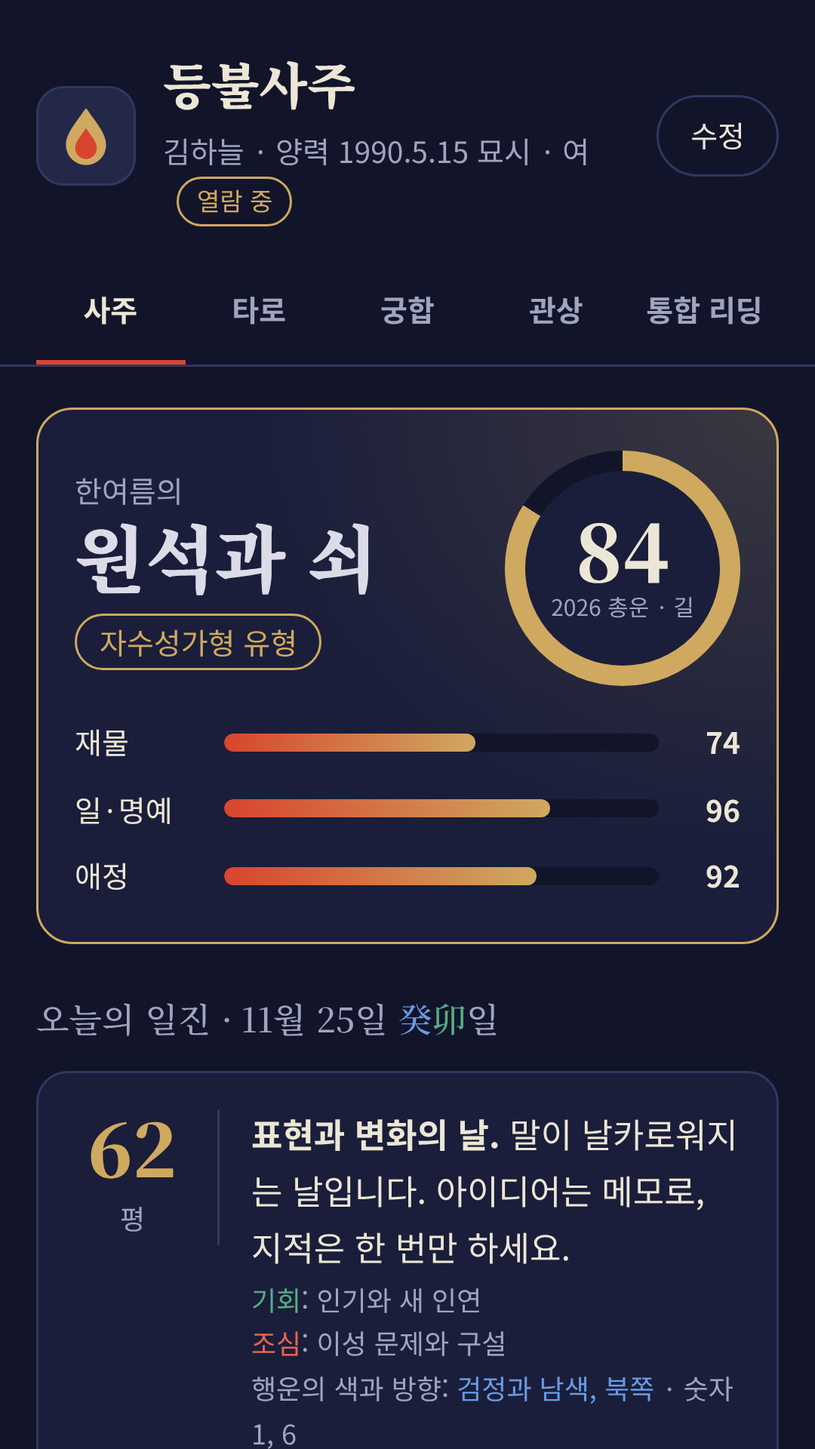
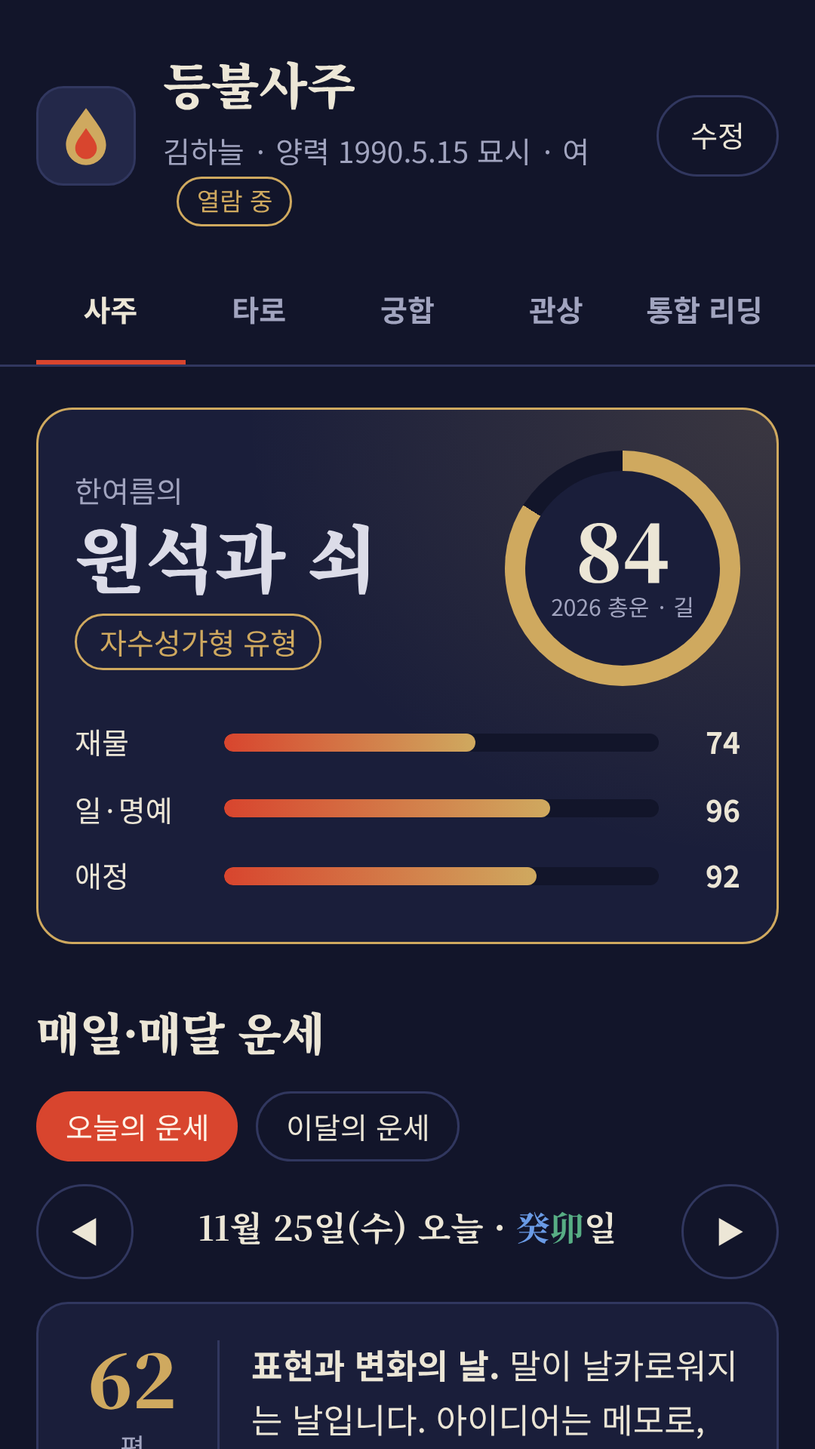
1.2: 매일·매달 운세와 달력, 어려운 말 풀이, 관상 분석 진행 막대, 가격 990원
Claude-Session: https://claude.ai/code/session_01QACgwmPwTTV6X5ASPwkZ8c

diff --git a/src/daily.js b/src/daily.js
@@ -1,0 +1,68 @@
+/* ===== 매일·매달 운세: 오늘의 운세(날짜 이동), 이달의 운세(달 이동, 날짜별 달력) =====
+   오늘과 이번 달은 무료, 다른 날·다른 달과 달력은 사주를 열면 볼 수 있다. */
+const MONTH_TIP = {
+  '비견': '내 일은 내가 정하는 달입니다. 미뤄 둔 결정을 내리기 좋지만 혼자 다 떠안지는 마세요.', '겁재': '사람 만날 일과 나갈 돈이 함께 늘어나는 달입니다. 지출 한도를 미리 정해 두세요.',
+  '식신': '꾸준히 한 것이 결과로 쌓이는 달입니다. 새로 벌이기보다 하던 일을 끝까지 마무리하세요.', '상관': '새로운 생각과 하고 싶은 말이 많아지는 달입니다. 표현은 살리되 윗사람과의 마찰은 피하세요.',
+  '편재': '움직인 만큼 기회가 생기는 달입니다. 사람을 만나고 발품을 파세요. 무리한 투자만 조심하면 됩니다.', '정재': '성실함이 그대로 수입과 신용으로 돌아오는 달입니다. 정리, 저축, 계약에 좋습니다.',
+  '편관': '책임과 압박이 커지는 달입니다. 일정을 줄이고 건강과 안전을 먼저 챙기세요.', '정관': '자리와 평판이 걸린 일이 생기는 달입니다. 규칙과 약속을 지키면 인정받습니다.',
+  '편인': '혼자 생각하고 배우기 좋은 달입니다. 결정은 서두르지 말고 자료를 더 모으세요.', '정인': '도움과 배움이 들어오는 달입니다. 윗사람의 조언을 듣고 자격이나 공부를 시작하기 좋습니다.'
+};
+const MONTH_TIP_KID = {
+  '비견': '스스로 해 보려는 마음이 커지는 달입니다. 혼자 정하고 해내는 경험을 하게 두면 좋습니다.', '겁재': '친구와 어울리는 일이 많아지는 달입니다. 친구 따라 하다 생기는 문제만 살펴 주세요.',
+  '식신': '좋아하는 것에 푹 빠지는 달입니다. 만들고 그리고 몸을 쓰는 활동이 잘 맞습니다.', '상관': '말과 호기심이 늘어나는 달입니다. 질문을 막지 말고, 말대꾸는 차분히 받아 주세요.',
+  '편재': '새로운 곳과 새로운 놀이에 끌리는 달입니다. 바깥 활동과 체험이 도움이 됩니다.', '정재': '차근차근 해내는 힘이 붙는 달입니다. 용돈 관리나 정리 습관을 들이기 좋습니다.',
+  '편관': '규칙과 숙제가 버겁게 느껴질 수 있는 달입니다. 일정을 줄이고 다치지 않게 살펴 주세요.', '정관': '칭찬과 인정을 받기 좋은 달입니다. 약속을 지키는 습관이 자랍니다.',
+  '편인': '혼자 생각하고 몰두하는 시간이 늘어나는 달입니다. 조용히 읽고 만드는 시간을 주세요.', '정인': '배우는 것이 잘 들어오는 달입니다. 책과 공부, 어른의 보살핌이 힘이 됩니다.'
+};
+const DAY_TIP_KID = {
+  '비견': '스스로 하고 싶은 것이 분명한 날입니다. 하나쯤은 직접 정하게 해 주세요.', '겁재': '친구와 부딪히기 쉬운 날입니다. 물건을 잃어버리지 않게 챙기세요.',
+  '식신': '잘 먹고 잘 노는 날입니다. 손으로 만드는 놀이가 잘 맞습니다.', '상관': '말이 많아지고 장난이 심해지는 날입니다. 에너지를 몸으로 풀게 해 주세요.',
+  '편재': '새로운 것에 눈이 가는 날입니다. 바깥 나들이가 좋습니다.', '정재': '차분히 정리하고 마무리하기 좋은 날입니다.',
+  '편관': '긴장하거나 다치기 쉬운 날입니다. 무리한 일정은 줄이세요.', '정관': '칭찬받을 일이 생기는 날입니다. 약속을 지키게 도와주세요.',
+  '편인': '혼자 있고 싶어 하는 날입니다. 조용한 시간을 주세요.', '정인': '배운 것이 잘 들어오는 날입니다. 책 읽기와 공부에 좋습니다.'
+};
+const WD = ['일', '월', '화', '수', '목', '금', '토'];
+function monthPillarOn(y, m, ds) { const t = calcSaju({ cal: 'solar', y, m, d: 15, si: 6, gender: 'M' }); return pillar(t.P.month.s, t.P.month.b, ds); }
+function fortuneHTML() {
+  const sj = S.saju, ds = sj.P.day.s, now = new Date(), tab = S.fTab || 'day', open = !!S.premium;
+  const bar = (n, v) => '<div class="sbar"><span>' + n + '</span><span class="trk"><i style="--w:' + v + '%"></i></span><b>' + v + '</b></div>';
+  const bars = (sc, kid) => '<div class="sbars">' + (kid ? bar('공부·성장', sc.career) + bar('친구·관계', sc.love) : bar('재물', sc.wealth) + bar('일·명예', sc.career) + bar('애정', sc.love)) + '</div>';
+  const lists = ev => (ev.good.length ? '<p class="note"><span class="c0">기회</span>: ' + ev.good.join(' / ') + '</p>' : '') + (ev.cautions.length ? '<p class="note"><span class="c1">조심</span>: ' + ev.cautions.join(' / ') + '</p>' : '');
+  const tabs = '<div class="chips"><button type="button" class="chip' + (tab === 'day' ? ' on' : '') + '" data-ftab="day">오늘의 운세</button><button type="button" class="chip' + (tab === 'month' ? ' on' : '') + '" data-ftab="month">이달의 운세</button></div>';
+  const gate = open ? '' : '<p class="note">다른 날과 다른 달의 운세, 날짜별 달력은 사주를 열면 볼 수 있습니다.</p>';
+  let body;
+  if (tab === 'day') {
+    const d = new Date(now.getFullYear(), now.getMonth(), now.getDate() + (open ? (S.fDay || 0) : 0), 12), off = open ? (S.fDay || 0) : 0;
+    const age = d.getFullYear() - sj.by, kid = age < 20, p = dayPillarOf(d.getFullYear(), d.getMonth() + 1, d.getDate(), ds), sc = luckScores(p, false), ev = evalLuck(p, false, age);
+    const lucky = S.ni.johu >= 0 && sj.count[S.ni.johu] <= sj.count[sj.need] ? S.ni.johu : sj.need;
+    const label = (d.getMonth() + 1) + '월 ' + d.getDate() + '일(' + WD[d.getDay()] + ')' + (off === 0 ? ' 오늘' : off === 1 ? ' 내일' : off === -1 ? ' 어제' : '');
+    body = '<div class="yearpick"><button type="button" class="ghost" data-fday="-1" aria-label="이전 날">◀</button><b class="fnow">' + label + ' · ' + elSpan(p.sEl, p.stemH) + elSpan(p.bEl, p.branchH) + '일</b><button type="button" class="ghost" data-fday="1" aria-label="다음 날">▶</button></div>' +
+      '<div class="panel block"><div class="daily"><div class="dscore"><b' + (off === 0 ? ' data-count="' + sc.total + '"' : '') + '>' + sc.total + '</b><small>' + scoreWord(sc.total) + '</small></div><div><p><b>' + DAEUN[p.sGod][0] + '의 날.</b> ' + (kid ? DAY_TIP_KID : DAY_TIP)[p.sGod] + '</p>' + lists(ev) +
+      '<p class="note">행운의 색과 방향: ' + elSpan(lucky, EL_TIP[lucky][0]) + ' · 숫자 ' + LUCKY_NUM[lucky] + '</p></div></div>' + bars(sc, kid) + '</div>' +
+      (off !== 0 ? '<button type="button" class="ghost" data-fday="0" style="justify-self:start">오늘로 돌아가기</button>' : '') + (S.streak > 1 && off === 0 ? '<p class="note">연속 ' + S.streak + '일째 보고 있습니다.</p>' : '');
+  } else {
+    const m0 = new Date(now.getFullYear(), now.getMonth() + (open ? (S.fMon || 0) : 0), 15, 12), y = m0.getFullYear(), m = m0.getMonth() + 1, off = open ? (S.fMon || 0) : 0;
+    const age = y - sj.by, kid = age < 20, p = monthPillarOn(y, m, ds), sc = luckScores(p, false), ev = evalLuck(p, false, age);
+    const days = new Date(y, m, 0).getDate(), first = new Date(y, m - 1, 1).getDay(), dayScore = [];
+    for (let d = 1; d <= days; d++) dayScore.push(luckScores(dayPillarOf(y, m, d, ds), false).total);
+    const rank = dayScore.map((v, i) => [i + 1, v]).sort((a, b) => b[1] - a[1]), best = rank.slice(0, 3).map(x => x[0]).sort((a, b) => a - b), worst = rank.slice(-3).map(x => x[0]).sort((a, b) => a - b);
+    const isNow = y === now.getFullYear() && m === now.getMonth() + 1;
+    const cal = '<div class="cal" role="grid" aria-label="' + m + '월 날짜별 운세">' + WD.map(w => '<span class="wd">' + w + '</span>').join('') + Array.from({ length: first }, () => '<span></span>').join('') +
+      dayScore.map((v, i) => '<button type="button" data-fdate="' + y + '-' + m + '-' + (i + 1) + '" class="' + (v >= 70 ? 'up' : v < 50 ? 'dn' : '') + (isNow && i + 1 === now.getDate() ? ' now' : '') + '" aria-label="' + (i + 1) + '일 ' + v + '점"><b>' + (i + 1) + '</b><small>' + v + '</small></button>').join('') + '</div>';
+    body = '<div class="yearpick"><button type="button" class="ghost" data-fmon="-1" aria-label="이전 달">◀</button><b class="fnow">' + y + '년 ' + m + '월' + (off === 0 ? ' 이번 달' : '') + ' · ' + elSpan(p.sEl, p.stemH) + elSpan(p.bEl, p.branchH) + '월</b><button type="button" class="ghost" data-fmon="1" aria-label="다음 달">▶</button></div>' +
+      '<div class="panel block"><div class="daily"><div class="dscore"><b>' + sc.total + '</b><small>' + scoreWord(sc.total) + '</small></div><div><p><b>' + DAEUN[p.sGod][0] + '의 달.</b> ' + (kid ? MONTH_TIP_KID : MONTH_TIP)[p.sGod] + '</p>' + lists(ev) + '</div></div>' + bars(sc, kid) + '</div>' +
+      (open ? '<div class="panel block"><p class="kv"><span class="c0">좋은 날</span> ' + best.map(d => d + '일').join(', ') + ' · <span class="c1">조심할 날</span> ' + worst.map(d => d + '일').join(', ') + '</p>' + cal + '<p class="note">날짜를 누르면 그날의 운세로 갑니다. 초록은 70점 이상, 붉은색은 50점 미만입니다.</p></div>' : '') +
+      (off !== 0 ? '<button type="button" class="ghost" data-fmon="0" style="justify-self:start">이번 달로 돌아가기</button>' : '') + '<p class="why">명리 근거: 달은 절기 기준이라 매달 4~8일쯤 바뀝니다. 월 초 며칠은 앞 달의 기운이 남아 있습니다.</p>';
+  }
+  return '<div class="block" id="fortune"><h2>매일·매달 운세</h2>' + tabs + body + gate + '</div>';
+}
+function drawFortune() { const el = $('fortune'); if (el) el.outerHTML = fortuneHTML(); }
+document.addEventListener('click', e => {
+  const t = e.target.closest('[data-ftab],[data-fday],[data-fmon],[data-fdate]'); if (!t) return;
+  if (t.dataset.ftab) { S.fTab = t.dataset.ftab; return drawFortune(); }
+  if (!S.premium) return openPay();
+  if (t.dataset.fday !== undefined) { const s = +t.dataset.fday; S.fDay = s === 0 ? 0 : (S.fDay || 0) + s; }
+  else if (t.dataset.fmon !== undefined) { const s = +t.dataset.fmon; S.fMon = s === 0 ? 0 : (S.fMon || 0) + s; }
+  else { const [y, m, d] = t.dataset.fdate.split('-').map(Number), n = new Date(); S.fDay = Math.round((new Date(y, m - 1, d, 12) - new Date(n.getFullYear(), n.getMonth(), n.getDate(), 12)) / 86400000); S.fTab = 'day'; }
+  drawFortune();
+});

diff --git a/src/gloss.js b/src/gloss.js
@@ -1,0 +1,92 @@
+/* ===== 어려운 말 풀이: 용어 사전과, 제목 옆에 자동으로 붙는 ? 단추 ===== */
+const GLOSS = [
+  ['사주의 기본', [
+    ['사주', '태어난 해, 달, 날, 시각을 네 개의 기둥으로 적은 것입니다. 기둥마다 글자가 둘씩이라 모두 여덟 글자(팔자)가 됩니다.'],
+    ['만세력', '날짜를 사주의 글자로 바꿔 주는 달력입니다. 이 앱은 절기를 계산해 자동으로 바꿉니다.'],
+    ['천간', '기둥의 윗글자 열 개(갑 을 병 정 무 기 경 신 임 계)입니다. 겉으로 드러나는 기운을 봅니다.'],
+    ['지지', '기둥의 아랫글자 열두 개(자 축 인 묘 …)입니다. 띠가 여기서 나오고, 속에 깔린 기운과 환경을 봅니다.'],
+    ['오행', '나무(목), 불(화), 흙(토), 쇠(금), 물(수) 다섯 가지 기운입니다. 여덟 글자가 모두 이 다섯 중 하나에 속합니다.'],
+    ['일간', '태어난 날 기둥의 윗글자로, 사주에서 나 자신을 뜻합니다. 모든 풀이는 이 글자를 기준으로 합니다.'],
+    ['일지', '태어난 날 기둥의 아랫글자입니다. 배우자 자리이자 내가 사는 방식을 봅니다.'],
+    ['월지', '태어난 달 기둥의 아랫글자입니다. 태어난 계절이라 사주의 바탕과 사회생활을 봅니다.'],
+    ['신강', '나를 돕는 기운이 많아 타고난 힘이 센 사주입니다. 스스로 밀고 나가는 편이 맞습니다. 반대는 신약입니다.'],
+    ['신약', '나를 돕는 기운이 적어 타고난 힘이 약한 사주입니다. 사람, 자격, 준비의 도움을 받는 편이 맞습니다.'],
+    ['용신', '내 사주에 가장 필요한 기운입니다. 이 기운이 들어오는 때에 일이 잘 풀린다고 봅니다.'],
+    ['조후', '사주가 덥고 추운 정도입니다. 여름에 태어나 뜨거우면 물이, 겨울에 태어나 차가우면 불이 필요하다고 봅니다.']]],
+  ['육신(십성)', [
+    ['육신', '나(일간)와 다른 글자의 관계를 열 가지로 나눈 이름입니다. 십성이라고도 합니다. 돈, 일, 사람, 공부 같은 삶의 영역이 여기서 나옵니다.'],
+    ['비견', '나와 똑같은 기운입니다. 내 편, 형제와 친구, 독립심을 뜻합니다.'],
+    ['겁재', '나와 같은 오행이지만 음양이 다른 기운입니다. 경쟁자와 동료, 나눠 써야 하는 돈을 뜻합니다.'],
+    ['식신', '내가 낳는 기운 가운데 순한 쪽입니다. 먹을 복, 꾸준한 기술, 만들어 내는 힘을 뜻합니다.'],
+    ['상관', '내가 낳는 기운 가운데 날카로운 쪽입니다. 말솜씨, 재주, 틀을 깨는 생각을 뜻합니다.'],
+    ['편재', '내가 다스리는 기운 가운데 움직이는 돈입니다. 사업, 투자, 발로 뛰어 버는 돈을 뜻합니다.'],
+    ['정재', '내가 다스리는 기운 가운데 고정된 돈입니다. 월급, 저축, 성실하게 모은 재산을 뜻합니다.'],
+    ['편관', '나를 누르는 기운 가운데 거친 쪽입니다. 압박과 책임, 위기에서 생기는 힘을 뜻합니다.'],
+    ['정관', '나를 누르는 기운 가운데 바른 쪽입니다. 직장, 규칙, 명예와 평판을 뜻합니다.'],
+    ['편인', '나를 낳는 기운 가운데 치우친 쪽입니다. 특이한 재능, 혼자 파고드는 공부, 직감을 뜻합니다.'],
+    ['정인', '나를 낳는 기운 가운데 바른 쪽입니다. 어머니, 학문, 자격, 받는 도움을 뜻합니다.']]],
+  ['운의 흐름', [
+    ['대운', '10년마다 바뀌는 큰 운입니다. 인생의 계절이 바뀌는 것과 같습니다.'],
+    ['세운', '해마다 바뀌는 그해의 운입니다.'],
+    ['월운', '달마다 바뀌는 운입니다. 달은 절기를 기준으로 나눕니다.'],
+    ['일진', '그날그날의 운입니다. 오늘 날짜의 글자가 내 사주와 어떻게 만나는지를 봅니다.'],
+    ['절기', '해의 위치로 한 해를 스물넷으로 나눈 것입니다. 사주에서 달은 입춘, 경칩 같은 절기에 바뀝니다.'],
+    ['십이운성', '기운이 태어나 자라고 쇠하는 열두 단계입니다. 그 시기에 힘이 오르는지 내려가는지를 봅니다.'],
+    ['삼재', '띠에 따라 9년마다 3년씩 드는 조심하는 기간입니다. 큰 변화와 무리한 확장을 삼가라고 봅니다.'],
+    ['공망', '채워도 비는 자리입니다. 기대만큼 결과가 따르지 않을 수 있다고 봅니다.'],
+    ['역마', '움직임의 별입니다. 이사, 출장, 여행, 해외 인연이 생깁니다.'],
+    ['도화', '사람을 끄는 매력의 별입니다. 인기와 새 인연이 생기지만 구설도 조심합니다.'],
+    ['천을귀인', '어려울 때 돕는 사람이 나타난다는 가장 좋은 별입니다.'],
+    ['문창귀인', '글과 공부, 시험에 힘을 주는 별입니다.'],
+    ['양인', '칼처럼 강한 기운입니다. 추진력이 되지만 다툼과 다치는 일을 조심합니다.']]],
+  ['글자끼리의 관계', [
+    ['천간합', '윗글자끼리 짝을 이루는 관계입니다. 서로 끌리고 묶입니다.'],
+    ['육합', '아랫글자 둘이 짝을 이루는 관계입니다. 가깝고 정이 붙습니다.'],
+    ['삼합', '아랫글자 셋이 한편이 되는 관계입니다. 같은 방향으로 힘을 모읍니다.'],
+    ['원진', '이유 없이 서운하고 미워지는 관계입니다.'],
+    ['합', '글자끼리 끌어당겨 묶이는 관계입니다. 가까워지고 안정됩니다.'],
+    ['충', '글자끼리 정면으로 부딪히는 관계입니다. 변동, 이동, 다툼이 생깁니다.'],
+    ['형', '서로 고치려 들어 삐걱거리는 관계입니다. 다툼과 서류 문제를 조심합니다.']]],
+  ['궁합', [
+    ['겉궁합', '남들 눈에 보이는 궁합입니다. 띠, 집안과 사회생활, 성격으로 봅니다.'],
+    ['속궁합', '둘만 아는 궁합입니다. 배우자 자리(일지)의 관계, 음양, 사주의 온도로 몸과 마음이 맞는 정도를 봅니다.'],
+    ['살림 궁합', '함께 살 때의 궁합입니다. 생활 습관, 돈, 다투고 화해하는 방식을 봅니다.']]],
+  ['관상', [
+    ['오행형', '얼굴 윤곽을 나무, 불, 흙, 쇠, 물 다섯 모양으로 나눈 것입니다. 긴 얼굴은 목형, 둥근 얼굴은 수형 식으로 봅니다.'],
+    ['삼정', '얼굴을 위아래 셋으로 나눈 것입니다. 이마(상정)는 초년, 눈썹에서 코끝(중정)은 중년, 코끝에서 턱(하정)은 말년을 봅니다.'],
+    ['오관', '눈썹, 눈, 코, 입, 귀 다섯 기관입니다. 각각 보수관, 감찰관, 심판관, 출납관, 채청관이라 부릅니다.'],
+    ['십이궁', '얼굴의 열두 자리입니다. 자리마다 재물, 배우자, 형제, 집 같은 삶의 영역을 봅니다.'],
+    ['인당', '눈썹과 눈썹 사이입니다. 십이궁의 첫째인 명궁으로, 운이 드나드는 문이라고 봅니다.'],
+    ['전택궁', '눈썹과 눈 사이입니다. 집과 부동산, 마음의 여유를 봅니다.'],
+    ['간문', '눈꼬리 옆에서 얼굴 가장자리까지입니다. 처첩궁이라 부르며 배우자와의 인연을 봅니다.'],
+    ['재백궁', '코입니다. 재물이 모이는 자리로 봅니다.'],
+    ['나이의 자리', '나이마다 얼굴의 한 자리가 그해의 운을 맡는다는 유년법입니다. 예를 들어 41세는 눈 사이 콧대 뿌리, 60세는 입입니다.']]]
+];
+const GLOSS_TERMS = GLOSS.flatMap(g => g[1].map(t => t[0])).filter(t => t.length >= 2).sort((a, b) => b.length - a.length);
+(() => {
+  const dlg = document.createElement('dialog'); dlg.id = 'glossDlg';
+  dlg.innerHTML = '<div class="sheet"><h2>어려운 말 풀이</h2>' + GLOSS.map(g => '<h3>' + g[0] + '</h3><dl class="gloss">' + g[1].map(t => '<div id="g-' + t[0] + '"><dt>' + t[0] + '</dt><dd>' + t[1] + '</dd></div>').join('') + '</dl>').join('') + '<button class="ghost" type="button" id="glossClose">닫기</button></div>';
+  document.body.appendChild(dlg);
+  $('glossClose').onclick = () => dlg.close();
+  const btn = document.createElement('button'); btn.className = 'ghost'; btn.type = 'button'; btn.id = 'glossBtn'; btn.textContent = '어려운 말 풀이';
+  $('guideBtn').insertAdjacentElement('afterend', btn);
+  const openGloss = term => {
+    if (!dlg.open) { if (dlg.showModal) dlg.showModal(); else dlg.setAttribute('open', ''); }
+    dlg.querySelectorAll('.hit').forEach(e => e.classList.remove('hit'));
+    const el = term && document.getElementById('g-' + term);
+    if (el) { el.classList.add('hit'); el.scrollIntoView({ block: 'center' }); } else dlg.querySelector('.sheet').scrollTop = 0;
+  };
+  document.addEventListener('click', e => { const t = e.target.closest('[data-gloss],#glossBtn'); if (t) { e.preventDefault(); openGloss(t.dataset.gloss); } });
+  /* 제목에 용어가 들어 있으면 옆에 ? 단추를 붙인다 */
+  const root = document.querySelector('.wrap'); let pend = false;
+  const decorate = () => {
+    pend = false; ob.disconnect();
+    root.querySelectorAll('section.view h3:not([data-gq]), section.view .read .it > b:not([data-gq])').forEach(h => {
+      h.setAttribute('data-gq', '1'); const tx = h.textContent, term = GLOSS_TERMS.find(t => tx.includes(t)); if (!term) return;
+      const q = document.createElement('button'); q.type = 'button'; q.className = 'gq'; q.dataset.gloss = term; q.setAttribute('aria-label', term + ' 뜻 보기'); q.textContent = '?'; h.appendChild(q);
+    });
+    ob.observe(root, { childList: true, subtree: true });
+  };
+  const ob = new MutationObserver(() => { if (!pend) { pend = true; setTimeout(decorate, 60); } });
+  ob.observe(root, { childList: true, subtree: true }); setTimeout(decorate, 0);
+})();

diff --git a/src/head.html b/src/head.html
@@ -237,6 +237,24 @@ ul.ftips{margin:0;padding-left:18px;display:grid;gap:4px}
 .ftbl td,.ftbl th{text-align:right;padding:4px 6px 4px 0;border-bottom:1px solid var(--line);font-weight:400;white-space:nowrap}
 .ftbl td:first-child,.ftbl th:first-child{text-align:left}
 #v-face details summary{cursor:pointer}
+.fnow{text-align:center;font-family:var(--serif);font-size:15px}
+.cal{display:grid;grid-template-columns:repeat(7,minmax(0,1fr));gap:4px}
+.cal .wd{text-align:center;font-size:11px;color:var(--mute)}
+.cal button{background:var(--ink);border:1px solid var(--line);border-radius:8px;padding:4px 0;display:grid;justify-items:center;line-height:1.2}
+.cal button b{font-size:13px;font-weight:600}.cal button small{font-size:10px;color:var(--mute);font-variant-numeric:tabular-nums}
+.cal button.up{border-color:var(--e0)}.cal button.up small{color:var(--e0)}
+.cal button.dn{border-color:var(--e1)}.cal button.dn small{color:var(--e1)}
+.cal button.now{background:var(--ink3);box-shadow:0 0 0 1px var(--gold)}
+.gq{width:18px;height:18px;border-radius:50%;border:1px solid var(--mute);background:none;color:var(--mute);font-size:11px;line-height:1;padding:0;margin-left:6px;vertical-align:1px;font-family:var(--sans);font-weight:600}
+dl.gloss{margin:0;display:grid;gap:8px}
+dl.gloss div{border-left:3px solid var(--line);padding-left:10px}
+dl.gloss div.hit{border-left-color:var(--gold);background:var(--ink3);border-radius:0 8px 8px 0;padding:6px 10px}
+dl.gloss dt{font-family:var(--serif);font-weight:900}dl.gloss dd{margin:0;font-size:14px}
+#glossDlg h3{margin-top:6px;color:var(--gold)}
+.fprog{display:grid;gap:8px;padding:28px 18px;text-align:center}
+.fprog .trk{height:8px;background:var(--ink);border-radius:5px;overflow:hidden}
+.fprog .trk i{display:block;height:100%;width:0;background:linear-gradient(90deg,var(--seal),var(--gold));border-radius:5px;transition:width .35s ease-out}
+.fprog b{font-family:var(--serif);font-size:22px;color:var(--gold);font-variant-numeric:tabular-nums}
 </style>
 </head>
 <body>
@@ -294,13 +312,13 @@ ul.ftips{margin:0;padding-left:18px;display:grid;gap:4px}
     <h2>사용 방법</h2>
     <ol class="guide">
       <li><b>내 정보 입력</b> 생년월일(양력·음력)과 태어난 시를 넣습니다. 시를 모르면 "시를 모릅니다"에 체크하세요.</li>
-      <li><b>사주</b> 올해 점수와 오늘의 일진부터 보고, 연도를 골라 해마다의 운세를 봅니다. 맨 아래에 종합의견이 있습니다.</li>
+      <li><b>사주</b> 맨 위에서 오늘의 운세와 이달의 운세를 보고, 연도를 골라 해마다의 운세를 봅니다. 맨 아래에 종합의견이 있습니다. 제목 옆의 ? 를 누르면 어려운 말을 풀어 줍니다.</li>
       <li><b>타로</b> 카드를 직접 눌러 뒤집습니다. 오늘의 카드는 하루 한 장입니다.</li>
       <li><b>궁합</b> 상대의 생년월일을 넣으면 두 사람의 점수와 풀이가 나옵니다.</li>
       <li><b>관상</b> 정면 사진을 찍거나 고르면 얼굴 비율을 재서 풀이하고 사주와 겹쳐 읽습니다. 사진은 저장하지 않습니다.</li>
       <li><b>통합 리딩</b> 사주와 뽑은 카드를 겹쳐서 읽어 줍니다.</li>
     </ol>
-    <p class="note">자물쇠가 걸린 내용은 사주 한 명, 궁합 한 쌍마다 1,000원에 열립니다. 입력한 정보는 이 기기에만 저장되고, 화면 맨 아래에서 전부 지울 수 있습니다. 풀이는 오락·참고용입니다.</p>
+    <p class="note">자물쇠가 걸린 내용은 사주 한 명, 궁합 한 쌍마다 990원에 열립니다. 입력한 정보는 이 기기에만 저장되고, 화면 맨 아래에서 전부 지울 수 있습니다. 풀이는 오락·참고용입니다.</p>
     <button class="primary" id="guideStart" type="button">내 정보 입력하고 시작</button>
     <button class="ghost" id="guideClose" type="button">예시 먼저 둘러보기</button>
   </div>

diff --git a/src/face.js b/src/face.js
@@ -343,17 +343,30 @@ function draw(src, P, m, r) {
   return cv;
 }
 
+/* 분석 진행 막대: 단계마다 목표 %를 정하고 그 사이는 천천히 차오르게 한다 */
+const prog = { v: 0, to: 0, t: null,
+  start() { const st = $('fStage'); if (!st) return; st.innerHTML = '<div class="fprog" role="progressbar" aria-valuemin="0" aria-valuemax="100" aria-label="관상 분석 진행"><b id="fPct">0%</b><div class="trk"><i id="fBar"></i></div><span class="note" id="fStep"></span></div>'; this.v = 0; this.to = 0; clearInterval(this.t); this.t = setInterval(() => { if (this.v < this.to) { this.v += Math.max(.4, (this.to - this.v) * .08); this.paint(); } }, 120); },
+  step(to, text) { this.to = to; const e = $('fStep'); if (e) e.textContent = text; },
+  paint() { const b = $('fBar'), p = $('fPct'); if (!b) return; const v = Math.min(100, Math.round(this.v)); b.style.width = v + '%'; p.textContent = v + '%'; b.parentNode.parentNode.setAttribute('aria-valuenow', v); },
+  async done() { this.v = this.to = 100; this.paint(); clearInterval(this.t); await new Promise(r => setTimeout(r, 350)); },
+  stop() { clearInterval(this.t); } };
+const tick = () => new Promise(r => setTimeout(r, 30));
 async function handle(file) {
   if (!file || F.busy) return;
-  setBusy(true); say('얼굴을 찾는 중입니다. 처음에는 몇 초 걸립니다.');
+  setBusy(true); say('사진을 분석하는 중입니다. 화면을 닫지 말고 잠시 기다려 주세요.');
+  prog.start(); prog.step(30, ready ? '분석 준비 중' : '얼굴 인식 엔진을 불러오는 중 (처음 한 번은 조금 걸립니다)');
   try {
     await loadModels();
+    prog.step(45, '사진을 읽는 중'); await tick();
     const c = await toCanvas(file);
+    prog.step(85, '얼굴을 찾는 중'); await tick();
     let dets = await faceapi.detectAllFaces(c, new faceapi.TinyFaceDetectorOptions({ inputSize: 512, scoreThreshold: .3 })).withFaceLandmarks();
     if (!dets.length) dets = await faceapi.detectAllFaces(c, new faceapi.TinyFaceDetectorOptions({ inputSize: 320, scoreThreshold: .25 })).withFaceLandmarks();
-    if (!dets.length) { say('얼굴을 찾지 못했습니다. 밝은 곳에서 얼굴이 화면의 절반쯤 차도록 정면으로 다시 찍어 주세요.', true); return; }
+    if (!dets.length) { prog.stop(); F.busy = false; renderFace(); say('얼굴을 찾지 못했습니다. 밝은 곳에서 얼굴이 화면의 절반쯤 차도록 정면으로 다시 찍어 주세요.', true); return; }
+    prog.step(95, '얼굴 비율을 재고 풀이를 만드는 중'); await tick();
     dets.sort((a, b) => b.detection.box.area - a.detection.box.area);
     const P = dets[0].landmarks.positions.map(q => ({ x: q.x, y: q.y })), m = measure(P), r = read(m);
+    await prog.done();
     F.res = { m, r, P, src: c }; F.cv = draw(c, P, m, r);
     F.msg = m.yaw > .13 ? '고개가 한쪽으로 돌아가 있어 정확도가 떨어집니다. 정면 사진으로 다시 보면 결과가 달라질 수 있습니다.' : dets.length > 1 ? '여러 얼굴 중 가장 크게 찍힌 얼굴을 봤습니다.' : ''; F.err = m.yaw > .13;
     F.busy = false; renderFace();
@@ -362,6 +375,7 @@ async function handle(file) {
     if (r.total >= 80 && typeof fx !== 'undefined') setTimeout(() => fx.burst($('fRing'), 50), 1100);
     $('fStage').scrollIntoView({ behavior: 'smooth', block: 'start' });
   } catch (e) {
+    prog.stop(); F.busy = false; renderFace();
     say(e && e.message === 'lib' ? '얼굴 인식 엔진을 불러오지 못했습니다. 잠시 뒤 다시 시도해 주세요.' : e && e.message === 'img' ? '이 사진 파일을 열 수 없습니다. JPG나 PNG 사진으로 다시 시도해 주세요.' : '분석 중 오류가 났습니다. 다른 사진으로 다시 시도해 주세요.', true);
     if (window.console) console.error(e);
   } finally { setBusy(false); }

diff --git a/src/deep.js b/src/deep.js
@@ -284,7 +284,7 @@ function renderSaju() {
     '<div class="block" id="s-year"><h3>해마다 조심할 것 · ' + years[0] + '~' + years[years.length - 1] + '</h3><div class="read">' + years.map(yItem).join('') + '</div></div>' + summaryHTML();
   const jump = '<div class="chips">' + (S.premium ? [['s-yuk', '육신'], ['s-pick', '연도 선택'], ['s-graph', '인생 그래프'], ['s-field', '분야별'], ['s-daeun', '지나온 운·다가올 운'], ['s-month', '월별'], ['s-year', '연도별'], ['s-sum', '종합의견']].map(j => '<button type="button" class="chip" data-jump="' + j[0] + '">' + j[1] + '</button>').join('') : '') + '<button type="button" class="chip' + (S.why ? ' on' : '') + '" data-why>명리 근거 ' + (S.why ? '숨기기' : '보기') + '</button></div>';
   $('v-saju').classList.toggle('show-why', !!S.why);
-  $('v-saju').innerHTML = heroHTML() + dailyHTML() +
+  $('v-saju').innerHTML = heroHTML() + fortuneHTML() +
     '<div class="block"><h2>사주 원국</h2><h3>' + sj.sajuYear + '년생 ' + sj.animal + '띠 · ' + ni.season + '에 태어난 ' + P.day.stem + EL[P.day.sEl] + '(' + P.day.stemH + ')</h3>' + table + '<p class="note">네 기둥은 태어난 해, 달, 날, 시각입니다. 가운데 일주의 윗글자가 나 자신입니다.</p>' + correctionHTML() + jump + '</div>' +
     '<div class="block"><h3>다섯 기운(오행)의 분포</h3><div class="panel">' + bars + '</div></div>' + yuksinHTML() +
     '<div class="block"><h3>나는 어떤 사람인가</h3><div class="panel"><p class="kv"><b>' + elSpan(P.day.sEl, P.day.stemH + ' ' + dm[0]) + '</b></p><p>' + dm[1] + ' ' + plainSeason(mod(P.month.bEl - sj.me, 5)) + '</p></div></div>' + mbtiHTML() +

diff --git a/src/pay.js b/src/pay.js
@@ -3,8 +3,8 @@
 const PAY_CONFIG = {
   androidKey: 'REPLACE_WITH_REVENUECAT_ANDROID_PUBLIC_KEY',   // RevenueCat > Project > API keys > Google Play
   iosKey: 'REPLACE_WITH_REVENUECAT_IOS_PUBLIC_KEY',
-  productId: 'reading_1000',                                  // 플레이 콘솔의 소모성 인앱 상품 ID
-  priceLabel: '1,000원',                                      // 스토어 가격을 못 불러왔을 때와 웹 미리보기에서 쓰는 표시
+  productId: 'reading_1000',                                  // 플레이 콘솔의 소모성 인앱 상품 ID(내부 이름. 가격은 990원으로 등록한다)
+  priceLabel: '990원',                                      // 스토어 가격을 못 불러왔을 때와 웹 미리보기에서 쓰는 표시
   termsUrl: 'https://parksang-jun.github.io/deungbul/terms.html',                      // 출시 전 실제 주소로 교체
   privacyUrl: 'https://parksang-jun.github.io/deungbul/privacy.html',
[1 lines of base64/hex data omitted]

diff --git a/docs/release-notes/1.2.md b/docs/release-notes/1.2.md
@@ -1,0 +1,21 @@
+# 등불사주 1.2 (versionCode 3)
+
+## 플레이 콘솔 "출시 노트"에 붙여 넣을 내용
+
+```
+<ko-KR>
+· 매일·매달 운세가 생겼습니다. 오늘의 운세와 이달의 운세를 점수로 보고, 달력에서 좋은 날과 조심할 날을 확인하세요
+· 육신, 대운 같은 어려운 말은 제목 옆 ? 를 누르면 쉬운 말로 풀어 줍니다
+· 궁합을 겉궁합, 속궁합, 살림 궁합 아홉 항목으로 자세히 봅니다
+· 관상에 "이렇게 바뀌면 좋아집니다"와 분석 진행 표시가 생겼습니다
+· 상세 풀이 가격은 990원입니다
+</ko-KR>
+```
+
+## 내부 기록
+
+- 매일·매달 운세: 사주 탭 맨 위. 오늘과 이번 달은 무료, 다른 날·다른 달과 날짜별 달력은 사주를 열어야 보인다. 달은 절기 기준으로 계산한다
+- 용어 풀이: `src/gloss.js`의 사전 55개. 제목에 용어가 있으면 ? 단추가 자동으로 붙는다. 화면 맨 아래 "어려운 말 풀이"로 전체를 볼 수 있다
+- 관상 분석 진행 막대: 엔진 불러오기, 사진 읽기, 얼굴 찾기, 풀이 만들기 단계 표시
+- 가격 1,000원 → 990원. 상품 ID는 `reading_1000` 그대로(내부 이름). 실제 가격은 플레이 콘솔에서 990원으로 등록해야 한다
+- 플레이 콘솔 "로그인 세부정보" 안내문의 "KRW 1,000"도 "KRW 990"으로 고친다

diff --git a/docs/store-listing.md b/docs/store-listing.md
@@ -37,6 +37,10 @@
 ■ 통합 리딩
 · 뽑은 카드의 기운을 내 사주에 필요한 기운과 겹쳐 읽습니다.
 
+■ 매일·매달 운세
+· 오늘의 운세와 이달의 운세를 점수와 함께 봅니다. 날짜별 달력에서 좋은 날과 조심할 날을 고를 수 있습니다.
+· 육신, 대운 같은 어려운 말은 제목 옆 ? 를 누르면 쉬운 말로 풀어 줍니다.
+
 ■ 관상
 · 정면 사진 한 장으로 얼굴 비율을 재서 오행형, 삼정, 오관, 십이궁을 풀이합니다.
 · 나이의 자리(유년)로 올해와 앞으로 4년을 짚고, 내 사주와 겹쳐 읽습니다.
@@ -54,7 +58,7 @@
 · 입력한 정보는 기기 안에만 저장되고, 관상 사진은 저장하지 않습니다. 회원 가입이 없고, 화면 맨 아래에서 언제든 전부 지울 수 있습니다.
 
 ■ 유료 기능
-· 기본 풀이는 무료입니다. 상세 풀이는 사주 한 명에 1,000원, 궁합 한 쌍에 1,000원입니다.
+· 기본 풀이는 무료입니다. 상세 풀이는 사주 한 명에 990원, 궁합 한 쌍에 990원입니다.
 · 구독이 없습니다. 한 번 결제한 사주와 궁합은 그 기기에서 계속 볼 수 있습니다.
 
 이 앱의 사주, 타로, 궁합, 관상 풀이와 점수는 오락·참고용입니다. 건강, 법률, 투자 등 중요한 결정의 근거로 쓰지 마세요.

diff --git a/docs/RELEASE.md b/docs/RELEASE.md
@@ -1,12 +1,12 @@
 # 구글플레이 출시 절차
 
-첫 출시 범위: 안드로이드, 무료 설치 + 건당 결제(사주 1명 1,000원, 궁합 1쌍 1,000원), AI 풀이 제외.
+첫 출시 범위: 안드로이드, 무료 설치 + 건당 결제(사주 1명 990원, 궁합 1쌍 990원), AI 풀이 제외.
 
 ## 1. 미리 정할 것
 
 - [x] 앱 이름: 등불사주
 - [ ] 패키지 이름 확정 (지금은 `com.parksangjun.sajutarot`, 첫 업로드 뒤 변경 불가)
-- [x] 가격: 사주 1명 1,000원, 궁합 1쌍 1,000원
+- [x] 가격: 사주 1명 990원, 궁합 1쌍 990원
 - [ ] 문의용 이메일
 - [ ] 개인정보처리방침과 이용약관을 올릴 공개 주소 (`docs/`의 초안을 고쳐서 게시)
 
@@ -29,7 +29,7 @@
 
 플레이 콘솔 > 수익 창출 > 인앱 상품:
 
-- [ ] 인앱 상품 `reading_1000` 생성, 가격 1,000원 (정기 결제가 아닌 일회성 상품). 사주와 궁합이 같은 상품을 쓴다
+- [ ] 인앱 상품 `reading_1000` 생성, 가격 990원 (정기 결제가 아닌 일회성 상품). 사주와 궁합이 같은 상품을 쓴다
 
 RevenueCat:
 

diff --git a/docs/RELEASE-iOS.md b/docs/RELEASE-iOS.md
@@ -27,7 +27,7 @@ Xcode에서
 ## App Store Connect
 
 - [ ] 새 앱: 이름 등불사주, 기본 언어 한국어, 번들 ID 위와 동일, SKU 임의
-- [ ] 인앱 구입 > 소모성 `reading_1000` (1,000원 등급), 심사용 스크린샷 첨부
+- [ ] 인앱 구입 > 소모성 `reading_1000` (990원 또는 가장 가까운 등급), 심사용 스크린샷 첨부
 - [ ] RevenueCat에 iOS 앱 추가, App Store Connect 공유 암호/키 연결, 공개 키를 `src/pay.js`의 `iosKey`에 입력
 - [ ] 앱 개인정보: 구매 내역, 기기 ID(앱 기능 목적, 추적 안 함). 생년월일과 얼굴 사진은 수집 안 함
 - [ ] 연령 등급 설문, 카테고리 라이프스타일

diff --git a/docs/release-notes/1.0.md b/docs/release-notes/1.0.md
@@ -10,7 +10,7 @@
 · 관상: 정면 사진으로 얼굴 비율을 재서 오행형·삼정·오관·십이궁을 풀이하고 사주와 겹쳐 읽습니다. 사진은 기기 안에서만 분석합니다
 · 궁합: 두 사람의 다섯 항목 점수와 풀이
 · 타로: 오늘의 카드와 3장 스프레드, 사주와 겹쳐 읽는 통합 리딩
-· 상세 풀이는 사주 한 명, 궁합 한 쌍마다 1,000원에 열립니다
+· 상세 풀이는 사주 한 명, 궁합 한 쌍마다 990원에 열립니다
 
 풀이는 오락·참고용입니다.
 </ko-KR>
